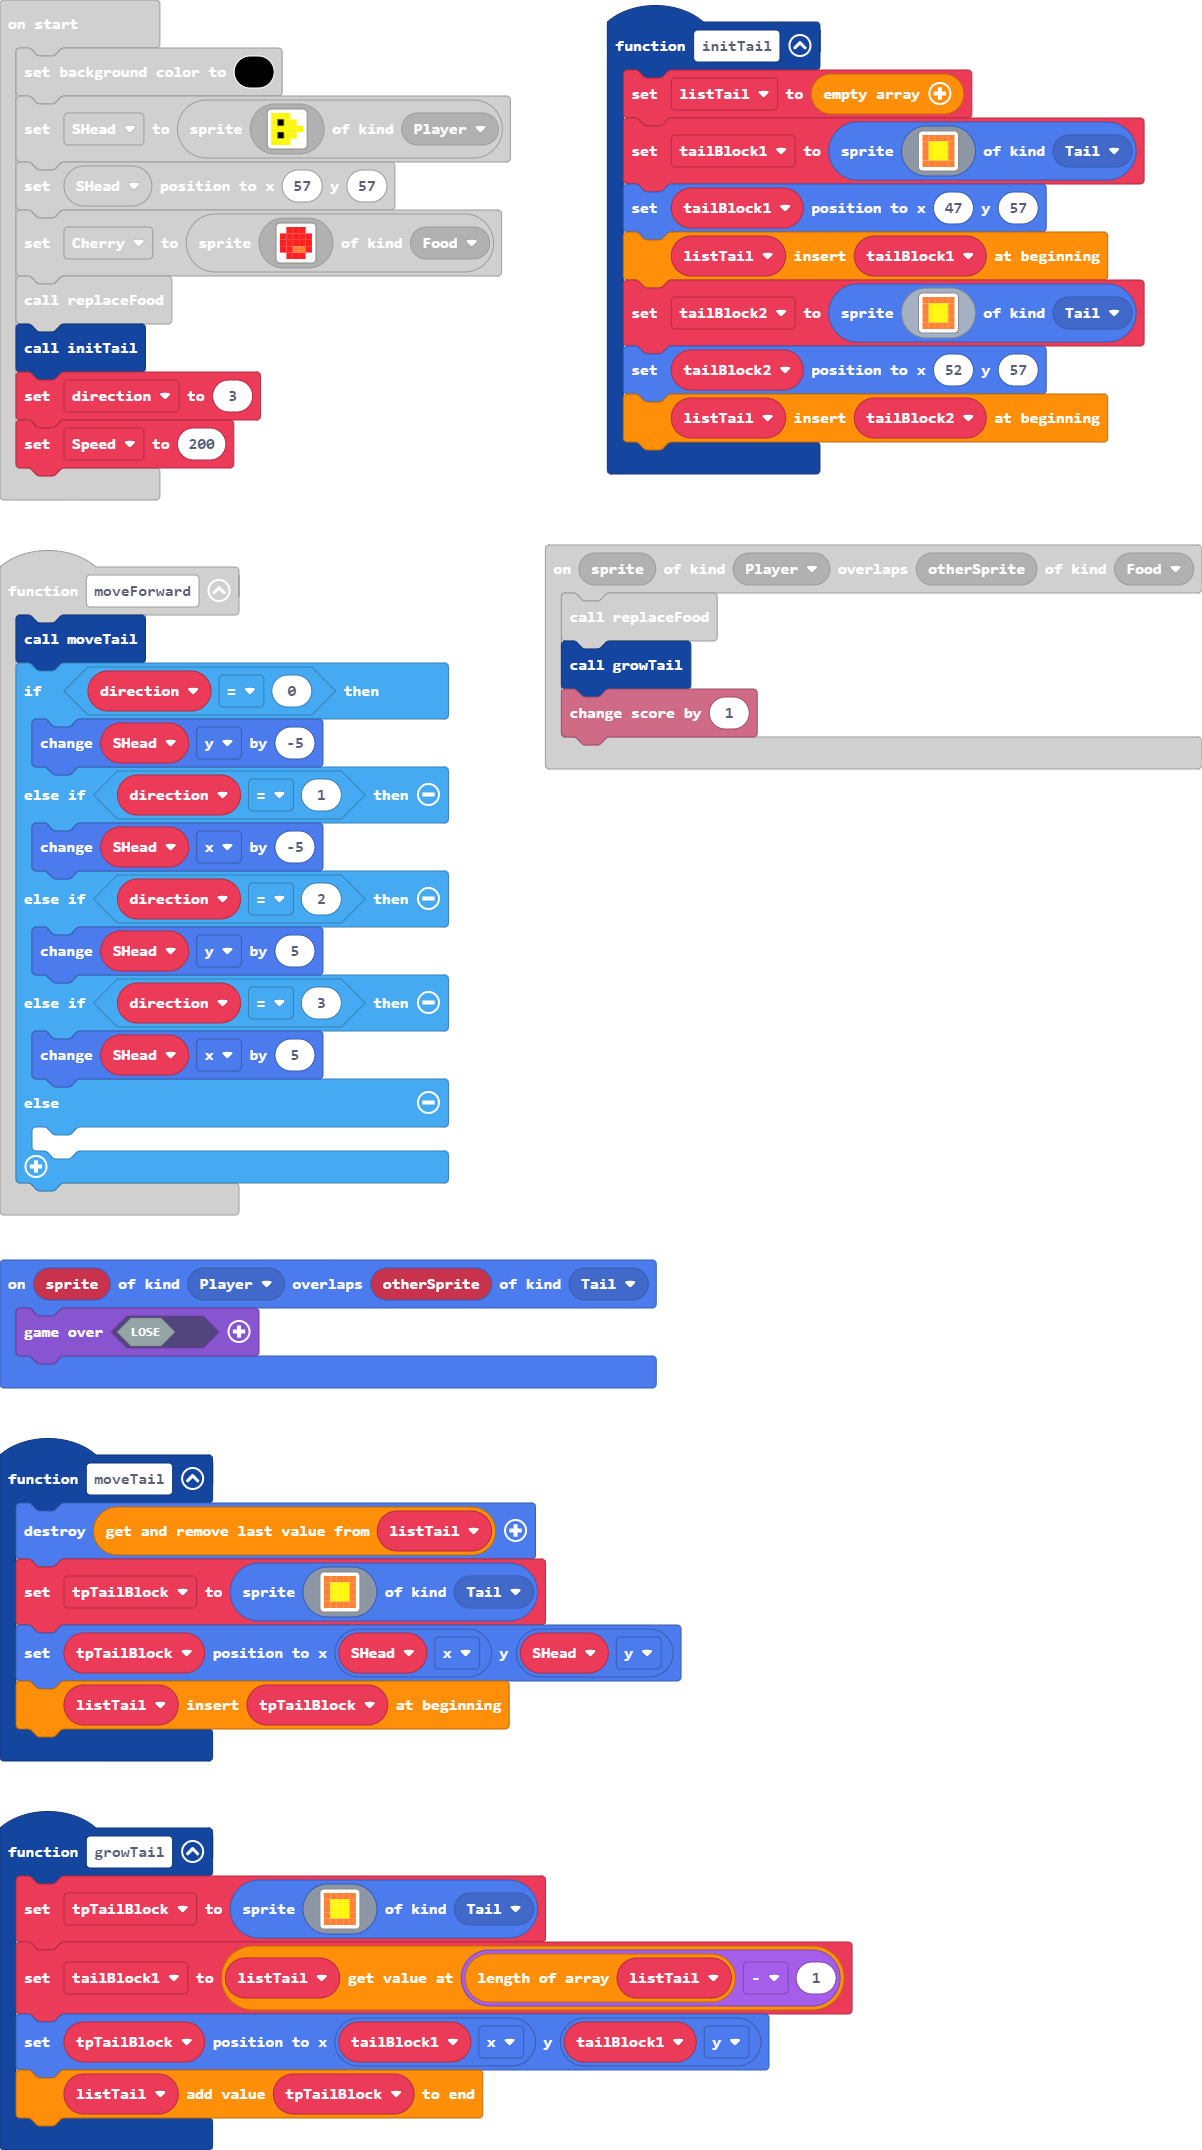
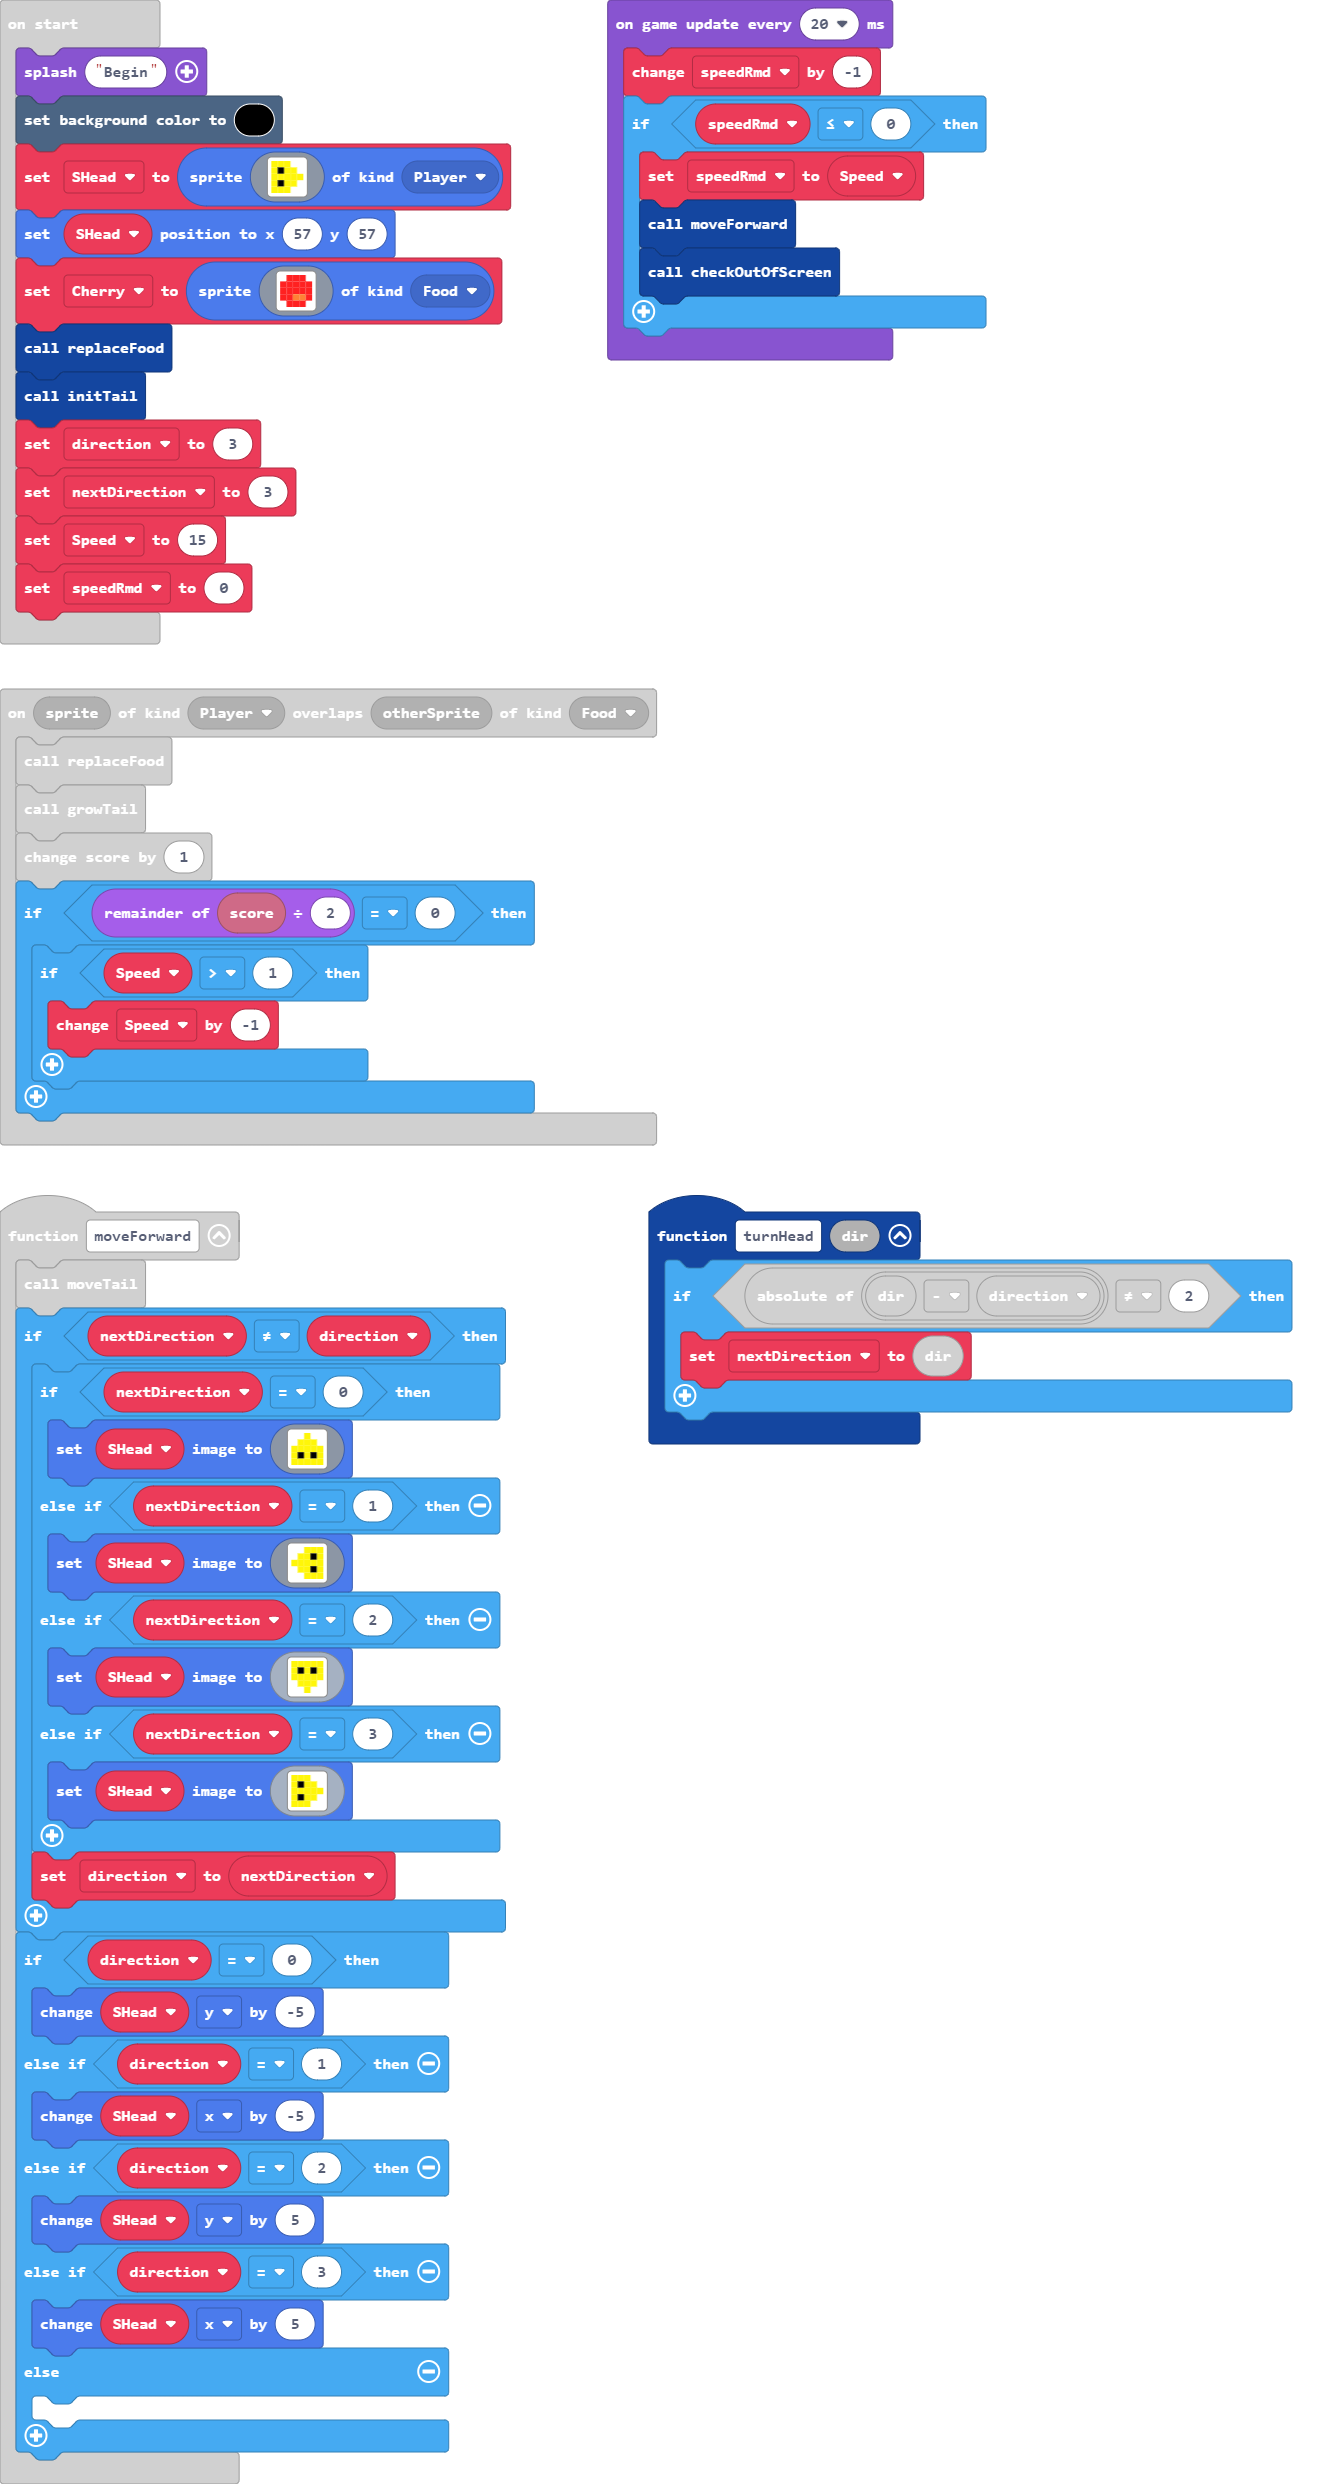
game speed increase every two points

diff --git a/main.ts b/main.ts
@@ -6,6 +6,42 @@ controller.up.onEvent(ControllerButtonEvent.Pressed, function () {
 })
 function moveForward () {
     moveTail()
+    if (nextDirection != direction) {
+        if (nextDirection == 0) {
+            SHead.setImage(img`
+                . . 5 . . 
+                . 5 5 5 . 
+                5 5 5 5 5 
+                5 f 5 f 5 
+                5 5 5 5 5 
+                `)
+        } else if (nextDirection == 1) {
+            SHead.setImage(img`
+                . . 5 5 5 
+                . 5 5 f 5 
+                5 5 5 5 5 
+                . 5 5 f 5 
+                . . 5 5 5 
+                `)
+        } else if (nextDirection == 2) {
+            SHead.setImage(img`
+                5 5 5 5 5 
+                5 f 5 f 5 
+                5 5 5 5 5 
+                . 5 5 5 . 
+                . . 5 . . 
+                `)
+        } else if (nextDirection == 3) {
+            SHead.setImage(img`
+                5 5 5 . . 
+                5 f 5 5 . 
+                5 5 5 5 5 
+                5 f 5 5 . 
+                5 5 5 . . 
+                `)
+        }
+        direction = nextDirection
+    }
     if (direction == 0) {
         SHead.y += -5
     } else if (direction == 1) {
@@ -84,57 +120,30 @@ sprites.onOverlap(SpriteKind.Player, SpriteKind.Food, function (sprite, otherSpr
     replaceFood()
     growTail()
     info.changeScoreBy(1)
+    if (info.score() % 2 == 0) {
+        if (Speed > 1) {
+            Speed += -1
+        }
+    }
 })
 function replaceFood () {
     Cherry.setPosition(randint(0, 31) * 5 + 2, randint(0, 23) * 5 + 2)
 }
 function turnHead (dir: number) {
     if (Math.abs(dir - direction) != 2) {
-        direction = dir
-    }
-    if (direction == 0) {
-        SHead.setImage(img`
-            . . 5 . . 
-            . 5 5 5 . 
-            5 5 5 5 5 
-            5 f 5 f 5 
-            5 5 5 5 5 
-            `)
-    } else if (direction == 1) {
-        SHead.setImage(img`
-            . . 5 5 5 
-            . 5 5 f 5 
-            5 5 5 5 5 
-            . 5 5 f 5 
-            . . 5 5 5 
-            `)
-    } else if (direction == 2) {
-        SHead.setImage(img`
-            5 5 5 5 5 
-            5 f 5 f 5 
-            5 5 5 5 5 
-            . 5 5 5 . 
-            . . 5 . . 
-            `)
-    } else if (direction == 3) {
-        SHead.setImage(img`
-            5 5 5 . . 
-            5 f 5 5 . 
-            5 5 5 5 5 
-            5 f 5 5 . 
-            5 5 5 . . 
-            `)
-    } else {
-    	
+        nextDirection = dir
     }
 }
 let tpTailBlock: Sprite = null
 let tailBlock2: Sprite = null
 let tailBlock1: Sprite = null
 let listTail: Sprite[] = []
+let Speed = 0
+let nextDirection = 0
 let direction = 0
 let Cherry: Sprite = null
 let SHead: Sprite = null
+game.splash("Begin")
 scene.setBackgroundColor(15)
 SHead = sprites.create(img`
     5 5 5 . . 
@@ -154,8 +163,14 @@ Cherry = sprites.create(img`
 replaceFood()
 initTail()
 direction = 3
-let Speed = 200
-game.onUpdateInterval(Speed, function () {
-    moveForward()
-    checkOutOfScreen()
+nextDirection = 3
+Speed = 15
+let speedRmd = 0
+game.onUpdateInterval(20, function () {
+    speedRmd += -1
+    if (speedRmd <= 0) {
+        speedRmd = Speed
+        moveForward()
+        checkOutOfScreen()
+    }
 })
